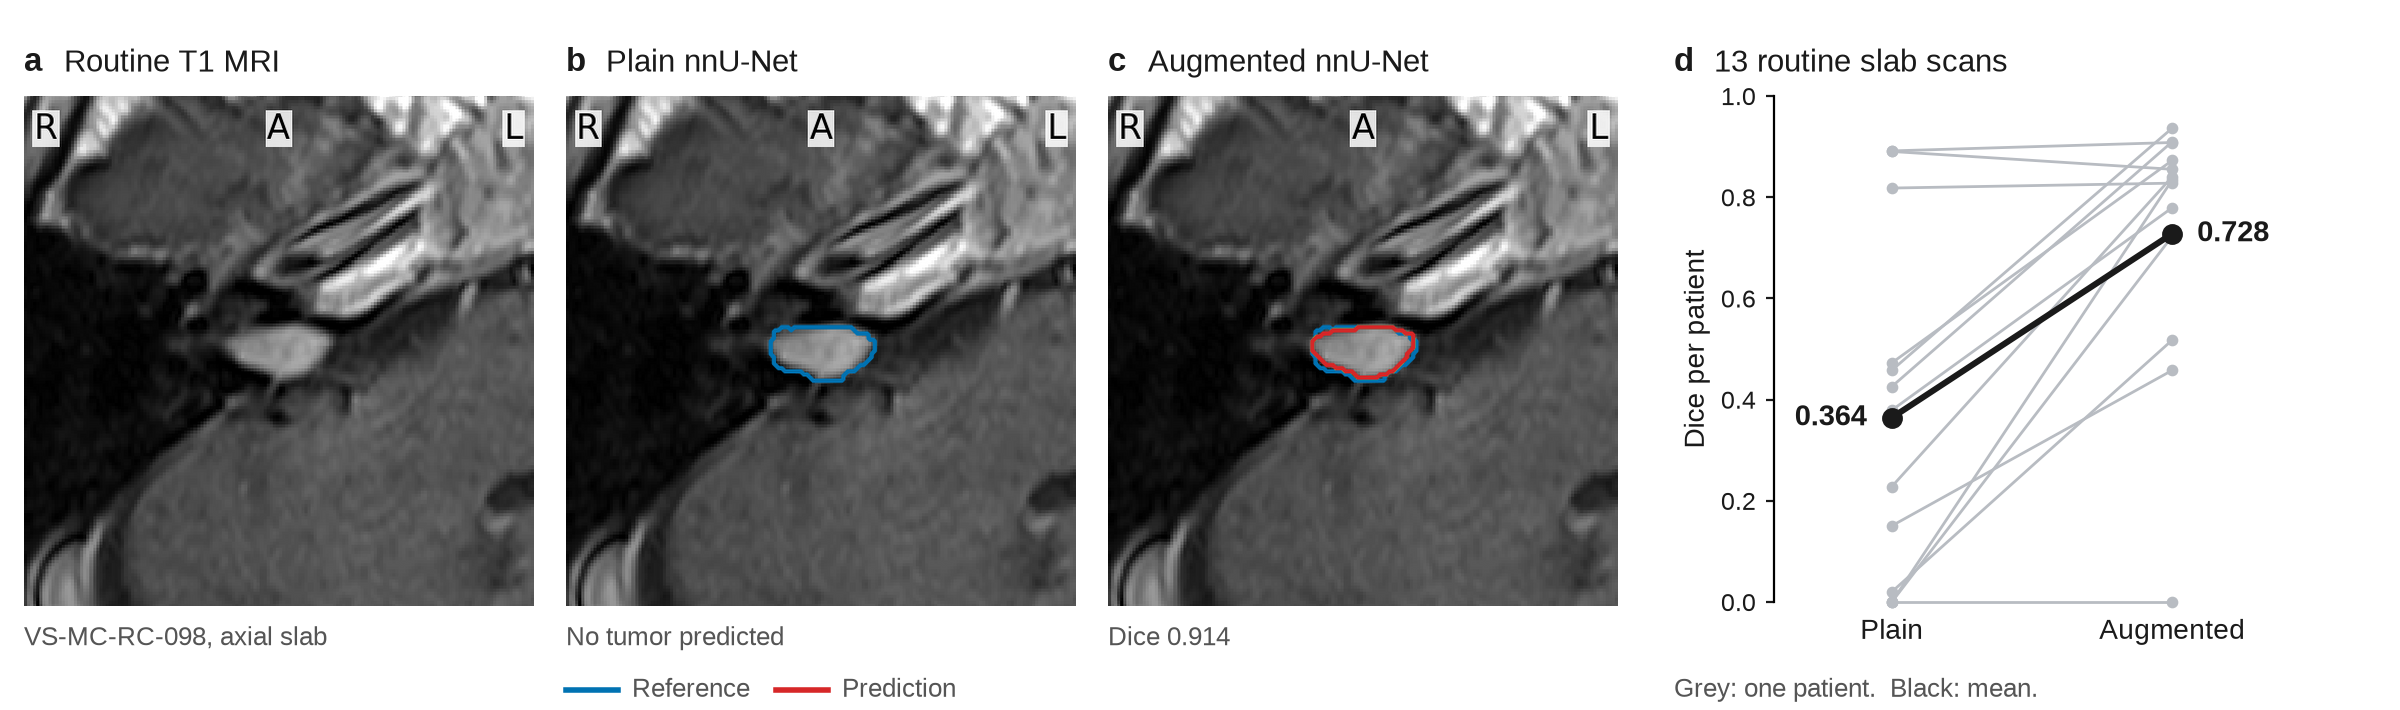
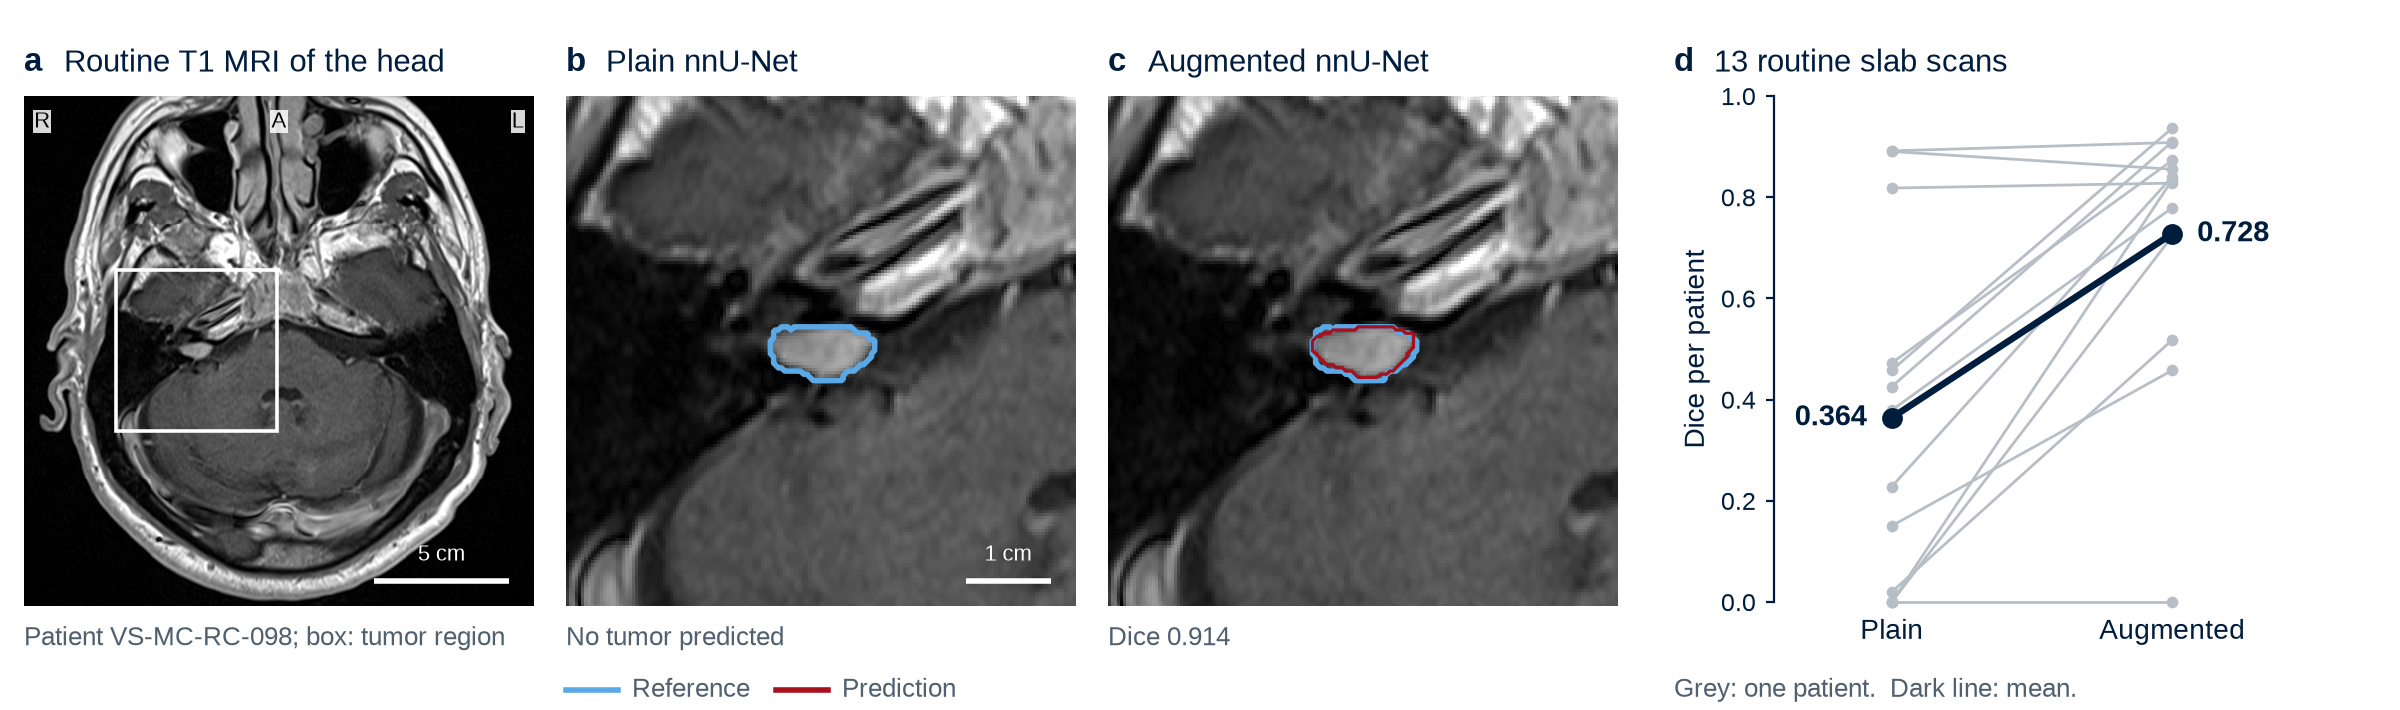
README figures: whole-head overview panel and one blue and red palette

diff --git a/docs/make_readme_figures.py b/docs/make_readme_figures.py
@@ -1,134 +1,230 @@
-"""Make the figures shown in the README from records already in this repository.
+"""Make the three figures shown in the README.
 
-No image volumes are read. Three files are written to docs/:
+  readme_banner.png    (a) whole axial slice of patient VS-MC-RC-098 with the
+                       tumor region boxed, (b, c) that region with the plain
+                       and the augmented nnU-Net (seed 42), (d) per-patient
+                       arm means of the 13 primary slab cases.
+  cases_followup.png   the five patients of the thesis case figure
+                       (mcrc_followup/figures/cases_followup.png), same slices
+                       and models, drawn with analysis/make_case_figure.py.
+  stress_test.png      display copy of stress_test/stress_test.png.
 
-  readme_banner.png    panels a-c are cropped from the first row of
-                       mcrc_followup/figures/cases_followup.png (patient
-                       VS-MC-RC-098); panel d plots the per-patient arm means
-                       of the 13 primary slab cases in
-                       mcrc_followup/tables/per_case.csv.
-  cases_followup.png   display copy of the case figure.
-  stress_test.png      display copy of the stress-test figure.
+These are display versions in one blue/red palette. The thesis versions under
+analysis/reports/ use blue and orange and are left unchanged. All numbers are
+read from mcrc_followup/tables/per_case.csv.
 
-In all three, the orange used for predictions and for nnU-Net in the stored
-figures is shown in red. Only that display colour differs; the stored figures
-under analysis/reports/ are the thesis versions and are left unchanged.
+The first two figures read images, reference masks and predictions from the
+local viewer bundle, which is not distributed (pass --bundle to point to it).
+The stress-test copy needs only the stored PNG. Requires nibabel.
 
 Run from the repository root:  python docs/make_readme_figures.py
 """
+import argparse
 import csv
+import importlib.util
+import sys
 from pathlib import Path
 
 import matplotlib
 matplotlib.use('Agg')
+import matplotlib.colors as mcolors
 import matplotlib.font_manager as font_manager
 import matplotlib.image as mpimg
-import matplotlib.pyplot as plt
 import numpy as np
 from matplotlib.lines import Line2D
+from matplotlib.patches import Rectangle
 
 ROOT = Path(__file__).resolve().parents[1]
 REPORT = ROOT / 'analysis/reports/model_insight_20261012'
 DOCS = ROOT / 'docs'
-BLUE, RED, INK, MUTED, FAINT = '#0072B2', '#D62728', '#1A1A1A', '#555555', '#B8BCC2'
-RED_RGB = np.array(matplotlib.colors.to_rgb(RED))
-
-for path in sorted(Path('/usr/share/fonts/truetype').glob('LiberationSans-*.ttf')):
-    font_manager.fontManager.addfont(str(path))
-plt.rcParams.update({
-    'font.family': 'sans-serif',
-    'font.sans-serif': ['Liberation Sans', 'Arial', 'Helvetica', 'DejaVu Sans'],
-    'axes.linewidth': 0.8,
-    'xtick.major.width': 0.8, 'ytick.major.width': 0.8,
-    'xtick.major.size': 3, 'ytick.major.size': 3,
-})
+NAVY = '#001D3D'      # text, axes and the manual U-Net lines
+SKY = '#5AA9E6'       # reference outline: navy is not visible on a dark scan
+RED = '#A8101B'       # predictions and nnU-Net lines
+MUTED, FAINT = '#51606F', '#B8BEC6'
+ROWS = (('VS-MC-RC-098', '7'), ('VS-MC-RC-081', '6'), ('VS-MC-RC-026', '8'), ('VS-MC-RC-057', '8'),
+        ('VS-MC-RC-016', ''))            # as FIGURE_ROWS in analysis/model_insight.py
+MODELS = (('plain_s42', 'Plain nnU-Net'), ('slabthick_s42', 'Augmented nnU-Net'))
 
 
-def orange_to_red(image, orange):
-    """Return the image with one stored orange shown in red.
-
-    A pixel on an anti-aliased orange line is a mix of that orange and a
-    neutral background. Its orange share is its chroma relative to the pure
-    colour, and that share of (red - orange) is added.
-    """
-    rgb = image[..., :3].astype(float)
-    source = np.array(matplotlib.colors.to_rgb(orange))
-    high, low = rgb.max(-1), rgb.min(-1)
-    chroma = high - low
-    red, green, blue = rgb[..., 0], rgb[..., 1], rgb[..., 2]
-    is_orange = (chroma > 0.03) & (red >= green) & (green >= blue) & (red - green < 0.75 * chroma + 0.02)
-    share = np.where(is_orange, np.clip(chroma / (source.max() - source.min()), 0, 1), 0)
-    out = image.copy()
-    out[..., :3] = np.clip(rgb + share[..., None] * (RED_RGB - source), 0, 1)
-    return out
+def load_helper():
+    spec = importlib.util.spec_from_file_location('make_case_figure', ROOT / 'analysis/make_case_figure.py')
+    helper = sys.modules[spec.name] = importlib.util.module_from_spec(spec)
+    spec.loader.exec_module(helper)
+    helper.GT_COLOR, helper.PRED_COLOR = SKY, RED
+    for path in sorted(Path('/usr/share/fonts/truetype').glob('LiberationSans-*.ttf')):
+        font_manager.fontManager.addfont(str(path))
+    helper.plt.rcParams.update({
+        'font.family': 'sans-serif',
+        'font.sans-serif': ['Liberation Sans', 'Arial', 'Helvetica', 'DejaVu Sans'],
+        'axes.linewidth': 0.8, 'xtick.major.width': 0.8, 'ytick.major.width': 0.8,
+        'xtick.major.size': 3, 'ytick.major.size': 3,
+    })
+    return helper
 
 
-def display_copy(source, name, orange):
-    mpimg.imsave(DOCS / name, orange_to_red(mpimg.imread(source), orange))
-
-
-def banner():
-    cases = orange_to_red(mpimg.imread(REPORT / 'mcrc_followup/figures/cases_followup.png'), '#E69F00')
-    rows, columns = slice(23, 523), (slice(213, 713), slice(736, 1236), slice(1260, 1760))
-    panels = (('a', 'Routine T1 MRI', 'VS-MC-RC-098, axial slab'),
-              ('b', 'Plain nnU-Net', 'No tumor predicted'),
-              ('c', 'Augmented nnU-Net', 'Dice 0.914'))
+def read_table():
     with open(REPORT / 'mcrc_followup/tables/per_case.csv', newline='') as handle:
-        slabs = [row for row in csv.DictReader(handle) if row['primary_slab_case'] == 'True']
+        return {row['case_id']: row for row in csv.DictReader(handle)}
+
+
+def load_case(helper, bundle, table, case_id, slice_index):
+    class Reports:       # the interface make_case_figure.Case expects
+        @staticmethod
+        def metric(_cohort, case, model):
+            return table[case][f'dice_{model}'], table[case][f'empty_{model}'] == 'True', 'per_case.csv'
+    spec = helper.Spec(case_id, slice_index, helper.DEFAULT_CROP_MM, tuple(m for m, _ in MODELS), '')
+    return helper.Case(spec, bundle, Reports)
+
+
+def score(table, case_id, model):
+    row = table[case_id]
+    return 'No tumor predicted' if row[f'empty_{model}'] == 'True' else f"Dice {float(row[f'dice_{model}']):.3f}"
+
+
+def draw(helper, axis, case, z, model=None, full=False, orient=False):
+    helper.panel(axis, case, z, model, full=full, orient=orient)
+    for collection, width in zip(axis.collections, (2.0, 1.2)):   # reference under, prediction on top
+        collection.set_linewidth(width)
+
+
+def scale_bar(axis, bounds, length_mm, label):
+    x0, _x1, y0, y1 = bounds
+    margin = 0.05 * (y1 - y0)
+    axis.plot([x0 + margin, x0 + margin + length_mm], [y0 + margin, y0 + margin], color='white', linewidth=2,
+              solid_capstyle='butt')
+    axis.text(x0 + margin + length_mm / 2, y0 + 1.6 * margin, label, color='white', fontsize=8, ha='center',
+              va='bottom')
+
+
+def outline_legend(figure, x, y, width):
+    for offset, color, label in ((0.0, SKY, 'Reference'), (1.05, RED, 'Prediction')):
+        start = (x + offset) / width
+        figure.add_artist(Line2D([start, start + 0.26 / width], [y, y], color=color, linewidth=2))
+        figure.text(start + 0.33 / width, y, label, fontsize=9.5, color=MUTED, va='center')
+
+
+def banner(helper, bundle, table):
+    plt = helper.plt
+    case = load_case(helper, bundle, table, *ROWS[0])
+    z = case.selected_slice()
+    crop, extent = case.bounds(z)
+    slabs = [row for row in table.values() if row['primary_slab_case'] == 'True']
+    assert len(slabs) == 13
     plain = np.array([float(row['dice_plain_arm']) for row in slabs])
     augmented = np.array([float(row['dice_augmented_arm']) for row in slabs])
-    assert len(slabs) == 13
 
-    width, height = 12.0, 3.55
-    figure = plt.figure(figsize=(width, height), dpi=200, facecolor='white')
-    side = 2.55                      # panel edge in inches
+    width, height, side = 12.0, 3.55, 2.55
     bottom, left, gap = 0.52, 0.12, 0.16
-    for index, (columns_, (letter, title, note)) in enumerate(zip(columns, panels)):
+    top = (bottom + side + 0.09) / height
+    figure = plt.figure(figsize=(width, height), dpi=200, facecolor='white')
+    panels = (('a', 'Routine T1 MRI of the head', 'Patient VS-MC-RC-098; box: tumor region', None),
+              ('b', MODELS[0][1], score(table, case.spec.case_id, MODELS[0][0]), MODELS[0][0]),
+              ('c', MODELS[1][1], score(table, case.spec.case_id, MODELS[1][0]), MODELS[1][0]))
+    for index, (letter, title, note, model) in enumerate(panels):
         x = left + index * (side + gap)
         axis = figure.add_axes([x / width, bottom / height, side / width, side / height])
-        axis.imshow(cases[rows, columns_], interpolation='lanczos')
-        axis.set_xticks([]); axis.set_yticks([])
-        for spine in axis.spines.values():
-            spine.set_visible(False)
-        top = (bottom + side + 0.09) / height
-        figure.text(x / width, top, letter, fontsize=12, fontweight='bold', color=INK, va='bottom')
-        figure.text((x + 0.2) / width, top, title, fontsize=11, color=INK, va='bottom')
+        if model is None:
+            draw(helper, axis, case, z, full=True, orient=True)
+            x0, x1, y0, y1 = crop
+            axis.add_patch(Rectangle((x0, y0), x1 - x0, y1 - y0, fill=False, edgecolor='white', linewidth=1.3))
+            scale_bar(axis, extent, 50, '5 cm')
+        else:
+            draw(helper, axis, case, z, model)
+            if index == 1:
+                scale_bar(axis, crop, 10, '1 cm')
+        figure.text(x / width, top, letter, fontsize=12, fontweight='bold', color=NAVY, va='bottom')
+        figure.text((x + 0.2) / width, top, title, fontsize=11, color=NAVY, va='bottom')
         figure.text(x / width, (bottom - 0.1) / height, note, fontsize=9.5, color=MUTED, va='top')
-
-    legend_y = 0.1 / height
-    for offset, color, label in ((0.0, BLUE, 'Reference'), (1.05, RED, 'Prediction')):
-        x = left + side + gap + offset   # under panel b, where the outlines first appear
-        figure.add_artist(Line2D([x / width, (x + 0.26) / width], [legend_y, legend_y], color=color, linewidth=2))
-        figure.text((x + 0.33) / width, legend_y, label, fontsize=9.5, color=MUTED, va='center')
+    outline_legend(figure, left + side + gap, 0.1 / height, width)
 
     x = left + 3 * (side + gap) + 0.62
-    plot_width = width - x - 0.55
-    axis = figure.add_axes([x / width, (bottom + 0.02) / height, plot_width / width, (side - 0.02) / height])
+    axis = figure.add_axes([x / width, (bottom + 0.02) / height, (width - x - 0.55) / width, (side - 0.02) / height])
     for a, b in zip(plain, augmented):
         axis.plot([0, 1], [a, b], color=FAINT, linewidth=1, marker='o', markersize=3.2, zorder=2, clip_on=False)
-    axis.plot([0, 1], [plain.mean(), augmented.mean()], color=INK, linewidth=2.2, marker='o', markersize=6.5,
+    axis.plot([0, 1], [plain.mean(), augmented.mean()], color=NAVY, linewidth=2.4, marker='o', markersize=6.5,
               zorder=3, clip_on=False)
-    axis.annotate(f'{plain.mean():.3f}', (0, plain.mean()), xytext=(-9, 0), textcoords='offset points',
-                  ha='right', va='center', fontsize=10.5, fontweight='bold', color=INK)
-    axis.annotate(f'{augmented.mean():.3f}', (1, augmented.mean()), xytext=(9, 0), textcoords='offset points',
-                  ha='left', va='center', fontsize=10.5, fontweight='bold', color=INK)
-    axis.set_xlim(-0.42, 1.42); axis.set_ylim(0, 1)
-    axis.set_xticks([0, 1]); axis.set_xticklabels(['Plain', 'Augmented'], fontsize=10, color=INK)
+    for position, value, shift, align in ((0, plain.mean(), -9, 'right'), (1, augmented.mean(), 9, 'left')):
+        axis.annotate(f'{value:.3f}', (position, value), xytext=(shift, 0), textcoords='offset points', ha=align,
+                      va='center', fontsize=10.5, fontweight='bold', color=NAVY)
+    axis.set_xlim(-0.42, 1.42)
+    axis.set_ylim(0, 1)
+    axis.set_xticks([0, 1])
+    axis.set_xticklabels(['Plain', 'Augmented'], fontsize=10, color=NAVY)
     axis.set_yticks([0, 0.2, 0.4, 0.6, 0.8, 1.0])
-    axis.tick_params(axis='y', labelsize=9, colors=INK)
+    axis.tick_params(axis='y', labelsize=9, colors=NAVY)
     axis.tick_params(axis='x', length=0, pad=6)
-    axis.set_ylabel('Dice per patient', fontsize=10, color=INK)
+    axis.set_ylabel('Dice per patient', fontsize=10, color=NAVY)
+    axis.spines['left'].set_color(NAVY)
     for name in ('top', 'right', 'bottom'):
         axis.spines[name].set_visible(False)
-    top = (bottom + side + 0.09) / height
-    figure.text((x - 0.5) / width, top, 'd', fontsize=12, fontweight='bold', color=INK, va='bottom')
-    figure.text((x - 0.3) / width, top, '13 routine slab scans', fontsize=11, color=INK, va='bottom')
-    figure.text((x - 0.5) / width, legend_y, 'Grey: one patient.  Black: mean.', fontsize=9.5, color=MUTED, va='center')
+    figure.text((x - 0.5) / width, top, 'd', fontsize=12, fontweight='bold', color=NAVY, va='bottom')
+    figure.text((x - 0.3) / width, top, '13 routine slab scans', fontsize=11, color=NAVY, va='bottom')
+    figure.text((x - 0.5) / width, 0.1 / height, 'Grey: one patient.  Dark line: mean.', fontsize=9.5, color=MUTED,
+                va='center')
     figure.savefig(DOCS / 'readme_banner.png', facecolor='white')
     plt.close(figure)
 
 
+def case_figure(helper, bundle, table):
+    plt = helper.plt
+    side, gap_x, gap_y, left, head, foot = 2.05, 0.1, 0.42, 1.15, 0.38, 0.5
+    width = left + 3 * side + 2 * gap_x + 0.1
+    height = head + len(ROWS) * (side + gap_y) + foot
+    figure = plt.figure(figsize=(width, height), dpi=200, facecolor='white')
+    for column, title in enumerate(('T1 MRI',) + tuple(label for _, label in MODELS)):
+        figure.text((left + column * (side + gap_x) + side / 2) / width, 1 - 0.24 / height, title, fontsize=10.5,
+                    color=NAVY, ha='center', va='center')
+    for row, (case_id, slice_index) in enumerate(ROWS):
+        case = load_case(helper, bundle, table, case_id, slice_index)
+        z = case.selected_slice()
+        y = height - head - (row + 1) * (side + gap_y) + gap_y
+        figure.text(0.08 / width, (y + side / 2) / height, case_id.replace('VS-MC-RC-', 'VS-MC-RC-\n'), fontsize=9.5,
+                    color=NAVY, va='center', linespacing=1.3)
+        for column, model in enumerate((None,) + tuple(m for m, _ in MODELS)):
+            x = left + column * (side + gap_x)
+            axis = figure.add_axes([x / width, y / height, side / width, side / height])
+            draw(helper, axis, case, z, model, orient=model is None)
+            if model:
+                figure.text((x + side / 2) / width, (y - 0.08) / height, score(table, case_id, model), fontsize=9,
+                            color=MUTED, ha='center', va='top')
+    outline_legend(figure, left + side + gap_x, 0.2 / height, width)
+    figure.savefig(DOCS / 'cases_followup.png', facecolor='white')
+    plt.close(figure)
+
+
+def recolor(image, replacements):
+    """Show stored line colours in the README palette.
+
+    A pixel on an anti-aliased line is a mix of the line colour and a neutral
+    background. Its share of the line colour is its chroma relative to the
+    pure colour; that share of (new - old) is added.
+    """
+    rgb = image[..., :3].astype(float)
+    hsv = mcolors.rgb_to_hsv(rgb)
+    chroma = rgb.max(-1) - rgb.min(-1)
+    out = rgb.copy()
+    for old, new in replacements:
+        old_rgb, new_rgb = np.array(mcolors.to_rgb(old)), np.array(mcolors.to_rgb(new))
+        distance = np.abs((hsv[..., 0] - mcolors.rgb_to_hsv(old_rgb)[0] + 0.5) % 1 - 0.5)
+        share = np.where((distance < 0.06) & (chroma > 0.03), np.clip(chroma / np.ptp(old_rgb), 0, 1), 0)
+        out += share[..., None] * (new_rgb - old_rgb)
+    result = image.copy()
+    result[..., :3] = np.clip(out, 0, 1)
+    return result
+
+
+def stress_copy():
+    stored = mpimg.imread(REPORT / 'stress_test/stress_test.png')
+    mpimg.imsave(DOCS / 'stress_test.png', recolor(stored, (('#2A78D6', NAVY), ('#EB6834', RED))))
+
+
 if __name__ == '__main__':
-    banner()
-    display_copy(REPORT / 'mcrc_followup/figures/cases_followup.png', 'cases_followup.png', '#E69F00')
-    display_copy(REPORT / 'stress_test/stress_test.png', 'stress_test.png', '#EB6834')
+    parser = argparse.ArgumentParser(description=__doc__.splitlines()[0])
+    parser.add_argument('--bundle', type=Path, default=REPORT / 'viewer_bundle',
+                        help='local viewer bundle with data/mcrc/<patient>/ image, reference and predictions')
+    arguments = parser.parse_args()
+    stress_copy()
+    module = load_helper()
+    scores = read_table()
+    banner(module, arguments.bundle, scores)
+    case_figure(module, arguments.bundle, scores)

diff --git a/README.md b/README.md
@@ -4,13 +4,15 @@ Code and experiment records for the MSc thesis of the same title by
 Kristian Svendsen, University of Bergen, 2026.
 
 <p align="center">
-  <img src="docs/readme_banner.png" alt="Panels a to c: a routine slab MRI, the plain nnU-Net with no prediction, and the augmented nnU-Net outlining the tumor. Panel d: Dice for 13 slab patients, mean 0.364 for plain and 0.728 for augmented training">
+  <img src="docs/readme_banner.png" alt="Panel a: an axial T1 MRI slice of the head with the tumor region boxed. Panels b and c: that region with the plain nnU-Net, which predicts no tumor, and the augmented nnU-Net, which outlines it. Panel d: Dice for 13 slab patients, mean 0.364 for plain and 0.728 for augmented training">
 </p>
 
-*(a–c) One of the 13 routine slab scans, with the reference outline in blue and
+*(a) Axial slice of a routine T1 MRI of the head with a vestibular schwannoma
+(boxed). (b, c) The boxed region with the reference outline in light blue and
 the model prediction in red (models with seed 42). (d) Dice for each of the 13
-patients under plain and augmented training (mean of two seeds each); the
-black line is the mean. One patient is still missed after augmentation.*
+routine slab scans under plain and augmented training (mean of two seeds
+each); the dark line is the mean. One patient is still missed after
+augmentation.*
 
 The thesis asks why T1 MRI segmentation models for vestibular schwannoma (VS)
 that were trained on the standardized VS-SEG dataset fail on routine
@@ -84,7 +86,7 @@ below the plain mean, and passed.
 </p>
 
 *Five MC-RC slab patients: image, plain nnU-Net and augmented nnU-Net (both
-seed 42, re-stacked inputs). Blue: reference. Red: prediction. The plain
+seed 42, re-stacked inputs). Light blue: reference. Red: prediction. The plain
 model returned an empty prediction for four of them; the augmented model
 segmented three of those and scored 0 on VS-MC-RC-016. Image slices are derived
 from VS-MC-RC (CC BY 4.0; see Data).*
@@ -106,7 +108,7 @@ no detectable harm, not as a gain.
 | `analysis/` | Failure analysis and stress test (`model_insight.py`, `model_insight.slurm`) with its case-figure helper (`make_case_figure.py`), the original comparison statistics (`thesis_analysis.py`), the scan-overlap audit (`audit_mcrc_vsseg_scan_overlap.py`), and the dated evidence under `analysis/reports/`; see the [report index](analysis/README.md). |
 | `metadata/` | Patient lists, scanner assignments, tumor volumes and the 22-patient external cohort table. Tables only; no images. |
 | `tests/` | Checks for scoring, prediction export and the nnU-Net runtime. |
-| `docs/` | The three figures shown on this page and the script that makes them from stored figures and tables (`make_readme_figures.py`). They show the stored orange in red; the thesis versions under `analysis/reports/` are unchanged. |
+| `docs/` | The three figures shown on this page and the script that makes them (`make_readme_figures.py`). They are display versions in one blue and red palette; the thesis versions under `analysis/reports/` use blue and orange and are unchanged. |
 | `requirements/`, `requirements.txt` | Python package lists for the analysis and preprocessing helpers. |
 
 `data/`, `outputs/`, `logs/` and the `work/` directories are local and are not
@@ -190,8 +192,8 @@ Two figures show image slices from VS-MC-RC patients with reference and
 predicted outlines: `cases_followup` and `cases_contralateral` (PNG and PDF)
 under `analysis/reports/model_insight_20261012/mcrc_followup/`. They are
 derived from the VS-MC-RC collection (Kujawa et al., 2024) and are shared
-under its CC BY 4.0 license. The banner and the case figure in `docs/` are
-made from the first of them.
+under its CC BY 4.0 license. The banner and the case figure in `docs/` show
+slices of the same patients.
 
 ## Software environment
 
@@ -216,4 +218,4 @@ the top of `analysis/model_insight.py`.
 The code and the author's records in this repository are released under the
 MIT License; see [LICENSE](LICENSE). The license does not cover the VS-SEG and
 VS-MC-RC data, which are not distributed here. The two figures named under
-Data, and the two figures in `docs/` made from them, remain under CC BY 4.0.
+Data, and the two figures in `docs/` that show such slices, remain under CC BY 4.0.
